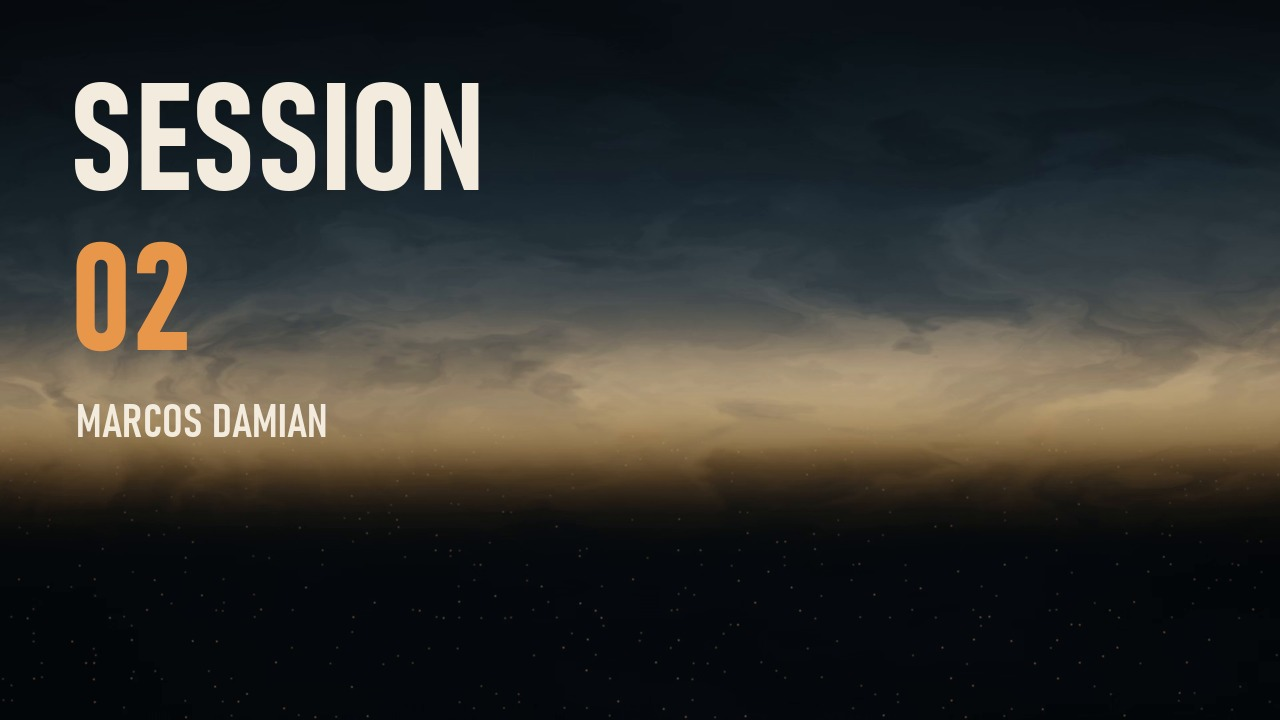
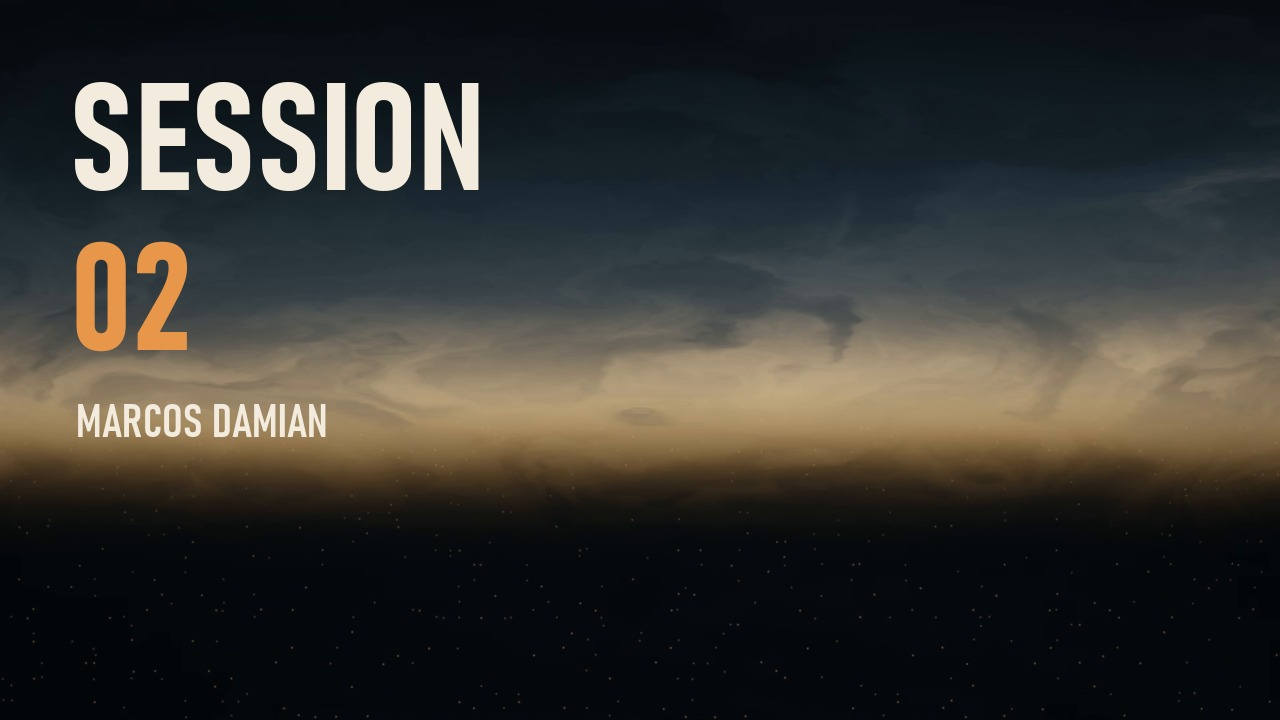
fix: los renders reintentan, anotan por que se cae ffmpeg, y la Session 02 con Seguro
- video_por_trozos.py reintenta un tramo hasta 3 veces; video_animar.py anota el
  codigo de salida de ffmpeg si se cierra (a las 11:19 se cerro sin dejar nada).
- mezclar.py pide a Windows no suspender mientras mezcla.
- Session 02: el 150 cambio Fragma por Seguro (pedido del DJ, 10:58). Mezcla nueva
  a 122 BPM, 17 transiciones verificadas; el titulo deja a Kamilo Sanclemente,
  que ya no esta en el set.

diff --git a/scripts/video_por_trozos.py b/scripts/video_por_trozos.py
@@ -34,6 +34,7 @@ import numpy as np
 RAIZ = Path(__file__).resolve().parents[1]
 sys.stdout.reconfigure(encoding="utf-8", errors="replace")
 TRAMO_S = 600
+REINTENTOS = 3                  # un tramo que falla se rehace solo antes de rendirse
 ES_CONTINUOUS, ES_SYSTEM_REQUIRED, ES_DISPLAY_REQUIRED = 0x80000000, 0x00000001, 0x00000002
 
 
@@ -74,9 +75,13 @@ def main() -> None:
                 print(f"tramo {k + 1}/{len(inicios)} ya estaba", flush=True)
                 continue
             print(f"tramo {k + 1}/{len(inicios)}: {ini / 60:.0f}-{(ini + largo) / 60:.1f} min", flush=True)
-            subprocess.run([sys.executable, "-u", str(RAIZ / "scripts" / "video_animar.py"), "--nombre", a.nombre,
-                            "--master", a.master, "--res", a.res, "--desde", f"{ini:.3f}",
-                            "--segundos", f"{largo:.3f}", "--salida", str(tramo)], check=True, cwd=RAIZ)
+            for intento in range(1, REINTENTOS + 1):
+                r = subprocess.run([sys.executable, "-u", str(RAIZ / "scripts" / "video_animar.py"), "--nombre",
+                                    a.nombre, "--master", a.master, "--res", a.res, "--desde", f"{ini:.3f}",
+                                    "--segundos", f"{largo:.3f}", "--salida", str(tramo)], cwd=RAIZ)
+                if r.returncode == 0 and abs(duracion(tramo) - largo) < 0.2:
+                    break
+                print(f"tramo {k + 1} fallo (intento {intento}/{REINTENTOS}, codigo {r.returncode})", flush=True)
             if abs(duracion(tramo) - largo) >= 0.2:
                 sys.exit(f"el tramo {k} quedo de {duracion(tramo):.1f} s y tenia que durar {largo:.1f}")
         lista = carpeta / "lista.txt"

diff --git a/scripts/video_animar.py b/scripts/video_animar.py
@@ -162,7 +162,12 @@ def main() -> None:
         prog["uAngulo"] = float(angulo)
         prog["uTextoAlfa"] = alfa
         vao.render(moderngl.TRIANGLE_STRIP)
-        proc.stdin.write(fbo.read(components=3))
+        try:
+            proc.stdin.write(fbo.read(components=3))
+        except OSError:
+            # ffmpeg se cerro: que quede escrito con que codigo, para saber si fue un error
+            # suyo, un crash o que alguien lo mato (2026-10-02 se cerro sin dejar nada)
+            sys.exit(f"ffmpeg se cerro en el cuadro {i - i0} con codigo {proc.wait()}")
         if (i - i0) % (fps * 30) == 0 and i > i0:
             hechos = i - i0
             ritmo = hechos / (time.time() - t_arranque)

diff --git a/scripts/mezclar.py b/scripts/mezclar.py
@@ -144,6 +144,9 @@ def main() -> None:
     a = ap.parse_args()
 
     t_arranque = time.time()
+    # que Windows no suspenda mientras mezcla: el reposo moderno corto un render el 2026-10-02
+    import ctypes
+    ctypes.windll.kernel32.SetThreadExecutionState(0x80000000 | 0x00000001)
     temas = leer_set(a.set)
     print(f"{len(temas)} temas del {a.set}; midiendo la estructura...", flush=True)
     estructuras = [medir(t) for t in temas]
